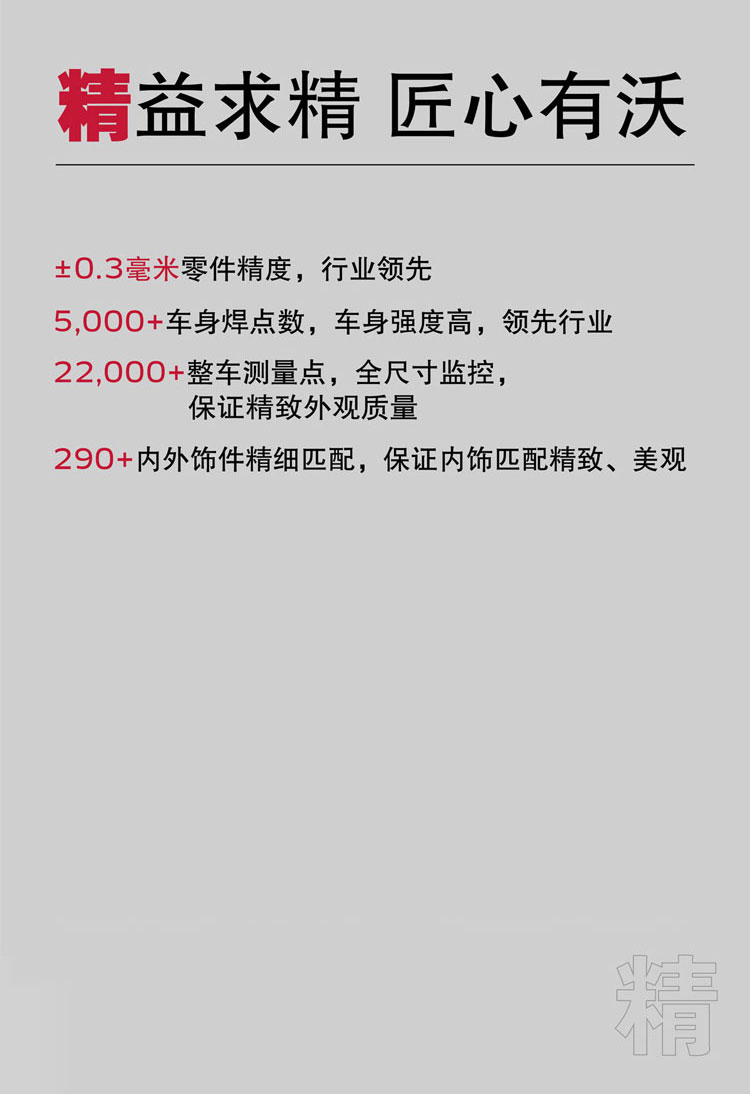
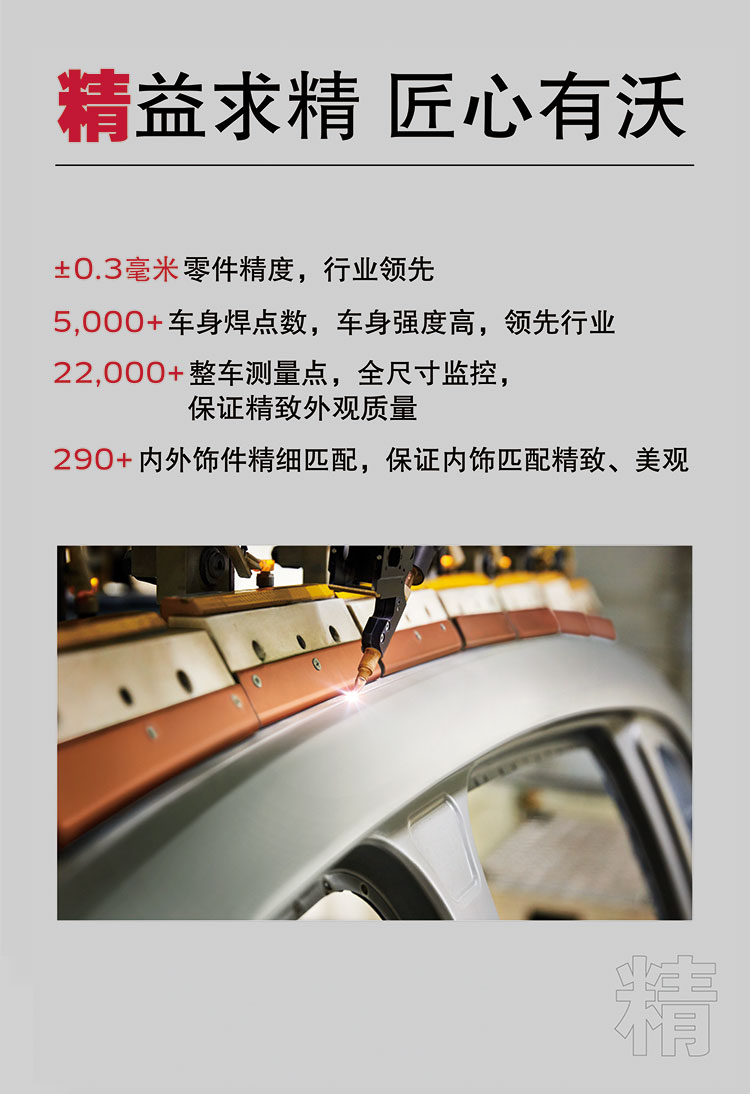
v2 全版本更新

diff --git a/public/index.html b/public/index.html
@@ -1,1 +1,1 @@
-<!DOCTYPE html><html><head><title>宝沃圣经 (V2.0)</title><meta charset="UTF-8"><meta name="viewport" content="width=device-width,initial-scale=1.0,minimum-scale=1.0"><meta name="sharecontent" data-msg-img="./assets/img/bw_logo.jpg" data-msg-title="宝沃圣经 (V2.0)" data-msg-content="中国新力量X-FORCE" data-msg-callBack="" data-line-img="./assets/img/bw_logo.jpg" data-line-title="中国新力量X-FORCE" data-line-callBack=""><meta name="description" content="中国新力量X-Force"><meta property="og:image" content="./assets/img/bw_logo.jpg"><meta property="og:title" content="宝沃圣经 (V2.0)"><meta property="og:description" content="中国新力量X-FORCE"><meta property="og:url" content=""><link rel="stylesheet" href="./assets/css/vendor/bootstrap.css"><link rel="stylesheet" href="./assets/css/vendor/video.css"><link rel="stylesheet" href="./assets/css/vendor/jquery.fancybox.css"><link rel="stylesheet" href="./assets/css/vendor/animate.css"><link rel="stylesheet" href="./assets/css/app.css"><script src="./assets/js/vendor/jquery.js"></script><script src="./assets/js/vendor/modernizr.3.5.0.js"></script><script src="./assets/js/vendor/detectizr.2.2.0.js"></script></head><div style="margin:0 auto;width:0px;height:0px;overflow:hidden;"><img src="./assets/img/bw_logo.jpg"></div><body><header class="c-header"><div class="c-header__logo"><img src="./assets/img/header-logo.png"></div><div class="c-header__menu js-menu"><ul><li><a href="javascript:void(0);" class="js-menu--top-menu--item">宝沃<br/>是谁</a><ul class="c-header__menu__submenu js-submenu"><li><a href="javascript:void(0);", data-url="2" class="js-submenu--item">宝沃密码</a></li><li><a href="javascript:void(0);", data-url="3" class="js-submenu--item">宝沃安全之盾</a></li><li><a href="javascript:void(0);", data-url="4" class="js-submenu--item">研  发</a></li><li><a href="javascript:void(0);", data-url="5" class="js-submenu--item">生  产</a></li><li><a href="javascript:void(0);", data-url="9" class="js-submenu--item">供应链</a></li></ul></li><li><a href="javascript:void(0);" class="js-menu--top-menu--item">宝沃<br/>怎么样</a><ul class="c-header__menu__submenu js-submenu"><li><a href="javascript:void(0);", data-url="13" class="js-submenu--item">懂一族</a></li><li><a href="javascript:void(0);", data-url="14" class="js-submenu--item">宝沃安全时空</a></li><li><a href="javascript:void(0);", data-url="27" class="js-submenu--item">设计专题</a></li><li><a href="javascript:void(0);", data-url="29" class="js-submenu--item">B-LINK专题</a></li><li><a href="javascript:void(0);", data-url="33" class="js-submenu--item">B-SAFE专题</a></li></ul></li><li><a href="javascript:void(0);" class="js-menu--top-menu--item">宝沃家族<br/>真心实价</a><ul class="c-header__menu__submenu js-submenu"><li><a href="javascript:void(0);", data-url="38" class="js-submenu--item">宝沃家族</a></li><li><a href="javascript:void(0);", data-url="47" class="js-submenu--item">保价承诺</a></li><li><a href="javascript:void(0);", data-url="48" class="js-submenu--item">终生质保</a></li></ul></li><li><a href="javascript:void(0);" class="js-menu--top-menu--item">媒体<br/>车主评价</a><ul class="c-header__menu__submenu js-submenu"><li><a href="javascript:void(0);", data-url="50" class="js-submenu--item">动  力</a></li><li><a href="javascript:void(0);", data-url="51" class="js-submenu--item">空  间</a></li><li><a href="javascript:void(0);", data-url="52" class="js-submenu--item">造  型</a></li><li><a href="javascript:void(0);", data-url="53" class="js-submenu--item">舒适性</a></li><li><a href="javascript:void(0);", data-url="55" class="js-submenu--item">买宝沃三大理由</a></li></ul></li></ul></div></header><div data-src="./assets/video/ecall.mp4" class="m-video pos-abs"></div><div class="flip-book js-flip-book"><section class="bg-ghost-blue"><img src="./assets/img/v2/s1.jpg" class="l-w--100p"></section><section id="p2" class="bg-ghost-blue"><img src="./assets/img/v2/s2.jpg" class="l-w--100p l-top"><ul class="l-w--70p l-center"><li href="./assets/img/v2/s2-9-long.jpg" class="fancybox flip-fancybox"></li><li href="./assets/img/v2/s2-8-long.jpg" class="fancybox flip-fancybox"></li><li href="./assets/img/v2/s2-7-long.jpg" class="fancybox flip-fancybox"></li><li href="./assets/img/v2/s2-6-long.jpg" class="fancybox flip-fancybox"></li><li href="./assets/img/v2/s2-5-long.jpg" class="fancybox flip-fancybox"></li><li href="./assets/img/v2/s2-4-long.jpg" class="fancybox flip-fancybox"></li><li href="./assets/img/v2/s2-3-long.jpg" class="fancybox flip-fancybox"></li><li href="./assets/img/v2/s2-2-long.jpg" class="fancybox flip-fancybox"></li><li href="./assets/img/v2/s2-1-long.jpg" class="fancybox flip-fancybox"></li></ul></section><section class="bg-ghost-blue"><img src="./assets/img/v2/s3.jpg" class="l-w--100p l-top"></section><section class="bg-ghost-blue"><img src="./assets/img/v2/s4.jpg" class="l-w--100p l-top"></section><section class="bg-ghost-blue"><div class="l-w--100p l-top"><img src="./assets/img/v2/s5.jpg" class="l-w--100p"><img src="./assets/img/v2/s5-1.png" data-url="6" class="l-w--80p pos-abs c-v2-s5-1 is-btn js-has-link"><img src="./assets/img/v2/s5-2.png" data-url="7" class="l-w--80p pos-abs c-v2-s5-2 is-btn js-has-link"><img src="./assets/img/v2/s5-3.png" data-url="8" class="l-w--80p pos-abs c-v2-s5-3 is-btn js-has-link"></div></section><section class="bg-ghost-blue"><div class="l-w--100p l-top"><img src="./assets/img/v2/s6.jpg" class="l-w--100p"><img src="./assets/img/v2/s6-1.jpg" data-src="./assets/video/factory.mp4" class="c-v2-s6 pos-abs has-btn js-m-video"></div><div data-url="5" class="c-v2-return-btn is-btn js-has-link"></div></section><section class="bg-ghost-blue"><div class="l-w--100p l-top"><img src="./assets/img/v2/s7.jpg" class="l-w--100p"><img src="./assets/img/v2/s7-1.jpg" data-src="./assets/video/factory.mp4" class="c-v2-s7 pos-abs has-btn js-m-video"></div><div data-url="5" class="c-v2-return-btn is-btn js-has-link"></div></section><section class="bg-ghost-blue"><div class="l-w--100p l-top"><img src="./assets/img/v2/s8.jpg" class="l-w--100p"><img src="./assets/img/v2/s8-1.jpg" data-src="./assets/video/factory.mp4" class="c-v2-s8 pos-abs has-btn js-m-video"></div><div data-url="5" class="c-v2-return-btn is-btn js-has-link"></div></section><section class="bg-ghost-blue"><div class="l-w--100p l-top"><img src="./assets/img/v2/s9.jpg" class="l-w--100p"><img src="./assets/img/v2/s9-1.jpg" data-url="10" class="l-w--80p pos-abs c-v2-s9 is-btn js-has-link"></div></section><section class="bg-silver-grey"><img src="./assets/img/v2/s10.jpg" class="l-w--100p l-top"><div data-url="9" class="c-v2-return-btn is-btn js-has-link"></div></section><section class="bg-silver-grey"><img src="./assets/img/v2/s11.jpg" class="l-w--100p l-top"><div data-url="9" class="c-v2-return-btn is-btn js-has-link"></div></section><section class="bg-black"><img src="./assets/img/v2/s12.jpg" class="l-w--100p l-top"></section><section class="bg-ghost-blue"><img src="./assets/img/v2/s13.jpg" class="l-w--100p l-top"></section><section id="p20" class="bg-black"><div class="l-center"><img src="./assets/img/s20.jpg" class="l-w--100p"><img src="./assets/img/s20-1.png" class="l-w--100p pos-abs flip-s20-anim-l"><img src="./assets/img/s20-2.png" class="l-w--100p pos-abs flip-s20-anim-r"><img src="./assets/img/s20-3.png" class="l-w--100p pos-abs flip-s20-anim-t"><img src="./assets/img/s20-4.png" class="l-w--100p pos-abs flip-s20-anim-b"></div></section><section class="bg-ghost-blue"><img src="./assets/img/v2/s15.jpg" class="l-w--100p l-top"></section><section class="bg-lily-white"><div class="c-v2-s16"><img src="./assets/img/s22-top.jpg" class="l-w--100p"><div class="flip-video pos-abs"><img src="./assets/img/v2/s16-bottom.jpg" class="l-w--100p"><img src="./assets/img/v2/s16-1.jpg" data-url="17" class="pos-abs c-v2-s16-1 is-btn js-has-link"><img src="./assets/img/v2/s16-2.jpg" data-url="18" class="pos-abs c-v2-s16-2 is-btn js-has-link"><img src="./assets/img/v2/s16-3.jpg" data-url="21" class="pos-abs c-v2-s16-3 is-btn js-has-link"><img src="./assets/img/play-btn.png" data-src="./assets/video/safe.mp4" class="js-m-video bw-video bw-video__btn--1 pos-abs"><img src="./assets/img/play-btn.png" data-src="./assets/video/0.12.mp4" class="js-m-video bw-video pos-abs bw-video__btn--2"><img src="./assets/img/play-btn.png" data-src="./assets/video/ecall.mp4" class="js-m-video bw-video pos-abs bw-video__btn--3"><div class="video-note pos-abs">提示：点击按钮播放视频，探索更多精彩</div></div></div></section><section class="bg-ghost-blue"><img src="./assets/img/v2/s17.jpg" class="l-w--100p l-top"><div data-url="16" class="c-v2-return-btn is-btn js-has-link"></div></section><section class="bg-ghost-blue"><img src="./assets/img/v2/s18.jpg" class="l-w--100p l-top"><div data-url="16" class="c-v2-return-btn is-btn js-has-link"></div></section><section class="bg-ghost-blue"><img src="./assets/img/v2/s19.jpg" class="l-w--100p l-top"><div data-url="16" class="c-v2-return-btn is-btn js-has-link"></div></section><section class="bg-ghost-blue"><div class="l-w--100p l-top"><img src="./assets/img/v2/s20.jpg" class="l-w--100p"><img src="./assets/img/v2/s20-1.jpg" data-src="./assets/video/single.mp4" class="c-v2-s20 pos-abs has-btn js-m-video"></div><div data-url="16" class="c-v2-return-btn is-btn js-has-link"></div></section><section class="bg-ghost-blue"><img src="./assets/img/v2/s21.jpg" class="l-w--100p l-top"><div data-url="16" class="c-v2-return-btn is-btn js-has-link"></div></section><section id="p23" class="bg-lily-white"><div class="c-v2-s22"><img src="./assets/img/s23-top.jpg" class="l-w--100p"><div class="flip-video pos-abs"><img src="./assets/img/v2/s16-bottom.jpg" class="l-w--100p"><img src="./assets/img/v2/s22-1.jpg" data-url="23" class="pos-abs c-v2-s22-1 is-btn js-has-link"><img src="./assets/img/v2/s22-2.jpg" data-url="25" class="pos-abs c-v2-s22-2 is-btn js-has-link"><img src="./assets/img/v2/s22-3.jpg" data-url="26" class="pos-abs c-v2-s22-3 is-btn js-has-link"><img src="./assets/img/play-btn.png" data-src="./assets/video/1000.mp4" class="js-m-video bw-video pos-abs bw-video__btn--4"><img src="./assets/img/play-btn.png" data-src="./assets/video/79.mp4" class="js-m-video bw-video pos-abs bw-video__btn--5"><img src="./assets/img/play-btn.png" data-src="./assets/video/0.02.mp4" class="js-m-video bw-video pos-abs bw-video__btn--6"><div class="video-note pos-abs">提示：点击按钮播放视频，探索更多精彩</div></div></div></section><section class="bg-ghost-blue"><img src="./assets/img/v2/s23.jpg" class="l-w--100p l-top"><div data-url="22" class="c-v2-return-btn is-btn js-has-link"></div></section><section class="bg-ghost-blue"><img src="./assets/img/v2/s24.jpg" class="l-w--100p l-top"><div data-url="22" class="c-v2-return-btn is-btn js-has-link"></div></section><section class="bg-ghost-blue"><img src="./assets/img/v2/s25.jpg" class="l-w--100p l-top"><div data-url="22" class="c-v2-return-btn is-btn js-has-link"></div></section><section class="bg-ghost-blue"><img src="./assets/img/v2/s26.jpg" class="l-w--100p l-top"><div data-url="22" class="c-v2-return-btn is-btn js-has-link"></div></section><section class="bg-ghost-blue"><img src="./assets/img/v2/s27.jpg" class="l-w--100p l-top"></section><section class="bg-ghost-blue"><img src="./assets/img/v2/s28.jpg" class="l-w--100p l-top"></section><section class="bg-ghost-blue"><div class="l-w--100p l-top"><img src="./assets/img/v2/s29.jpg" class="l-w--100p"><img src="./assets/img/v2/s29-1.png" data-url="30" class="c-v2-s29 pos-abs js-has-link is-btn"></div></section><section class="bg-ghost-blue"><img src="./assets/img/v2/s30.jpg" class="l-w--100p l-top"><div data-url="29" class="c-v2-return-btn is-btn js-has-link"></div></section><section class="bg-ghost-blue"><img src="./assets/img/v2/s31.jpg" class="l-w--100p l-top"><div data-url="29" class="c-v2-return-btn is-btn js-has-link"></div></section><section class="bg-ghost-blue"><img src="./assets/img/v2/s32.jpg" class="l-w--100p l-top"><div data-url="29" class="c-v2-return-btn is-btn js-has-link"></div></section><section class="bg-ghost-blue"><div class="l-w--100p l-top"><img src="./assets/img/v2/s33.jpg" class="l-w--100p"><img src="./assets/img/v2/s29-1.png" data-url="34" class="c-v2-s33 pos-abs js-has-link is-btn"></div></section><section class="bg-ghost-blue"><img src="./assets/img/v2/s34.jpg" class="l-w--100p l-top"><div data-url="33" class="c-v2-return-btn is-btn js-has-link"></div></section><section class="bg-ghost-blue"><img src="./assets/img/v2/s35.jpg" class="l-w--100p l-top"><div data-url="33" class="c-v2-return-btn is-btn js-has-link"></div></section><section class="bg-ghost-blue"><img src="./assets/img/v2/s36.jpg" class="l-w--100p l-top"><div data-url="33" class="c-v2-return-btn is-btn js-has-link"></div></section><section class="bg-black"><img src="./assets/img/v2/s37.jpg" class="l-w--100p l-top"></section><section class="bg-lily-white"><img src="./assets/img/v2/s38-1.jpg" data-url="39" class="pos-rel flip-book-anim-24-1 l-w--100p c-v2-s38-1 is-btn js-has-link"><img src="./assets/img/v2/s38-2.jpg" data-url="43" class="pos-rel flip-book-anim-24-2 l-w--100p c-v2-s38-2 is-btn js-has-link"><img src="./assets/img/v2/s38-3.jpg" class="l-w--100p pos-rel c-v2-s38-0"><img src="./assets/img/v2/s38-4.jpg" data-url="45" class="pos-rel flip-book-anim-24-3 l-w--100p c-v2-s38-3 is-btn js-has-link"><img src="./assets/img/v2/s38-5.jpg" data-url="41" class="pos-rel flip-book-anim-24-4 l-w--100p c-v2-s38-4 is-btn js-has-link"><img src="./assets/img/v2/s38-6.jpg" data-url="46" class="pos-rel flip-book-anim-24-5 l-w--100p c-v2-s38-5 is-btn js-has-link"></section><section class="bg-ghost-blue"><img src="./assets/img/v2/s39.jpg" class="l-w--100p l-top"><div data-url="38" class="c-v2-return-btn is-btn js-has-link"></div></section><section class="bg-ghost-blue"><div class="l-w--100p l-top"><img src="./assets/img/v2/s40.jpg" class="l-w--100p"><img src="./assets/img/v2/s40-1.jpg" data-src="./assets/video/bx5.mp4" class="c-v2-s40 pos-abs has-btn js-m-video"></div><div data-url="38" class="c-v2-return-btn is-btn js-has-link"></div></section><section class="bg-ghost-blue"><img src="./assets/img/v2/s41.jpg" class="l-w--100p l-top"><div data-url="38" class="c-v2-return-btn is-btn js-has-link"></div></section><section class="bg-ghost-blue"><div class="l-w--100p l-top"><img src="./assets/img/v2/s42.jpg" class="l-w--100p"><img src="./assets/img/v2/s42-1.jpg" data-src="./assets/video/bx6.mp4" class="c-v2-s42 pos-abs has-btn js-m-video"></div><div data-url="38" class="c-v2-return-btn is-btn js-has-link"></div></section><section class="bg-ghost-blue"><img src="./assets/img/v2/s43.jpg" class="l-w--100p l-top"><div data-url="38" class="c-v2-return-btn is-btn js-has-link"></div></section><section class="bg-ghost-blue"><div class="l-w--100p l-top"><img src="./assets/img/v2/s44.jpg" class="l-w--100p"><img src="./assets/img/v2/s44-1.jpg" data-src="./assets/video/bx7.mp4" class="c-v2-s44 pos-abs has-btn js-m-video"></div><div data-url="38" class="c-v2-return-btn is-btn js-has-link"></div></section><section class="bg-ghost-blue"><img src="./assets/img/v2/s45.jpg" class="l-w--100p l-top"><div data-url="38" class="c-v2-return-btn is-btn js-has-link"></div></section><section class="bg-ghost-blue"><img src="./assets/img/v2/s46.jpg" class="l-w--100p l-top"><div data-url="38" class="c-v2-return-btn is-btn js-has-link"></div></section><section class="bg-ghost-blue"><img src="./assets/img/v2/s47.jpg" class="l-w--100p l-top"></section><section class="bg-ghost-blue"><img src="./assets/img/v2/s48.jpg" class="l-w--100p l-top"></section><section class="bg-black"><img src="./assets/img/v2/s49.jpg" class="l-w--100p l-top"></section><section class="bg-ghost-blue"><div class="l-w--100p pos-rel c-v2-s50-top"><img src="./assets/img/v2/s50-top.jpg" class="l-w--100p"><a href="https://k.autohome.com.cn/detail/view_01c4y0tn3e64w3jd1j74wg0000.html?st=2&amp;piap=0|3913|0|0|1|0|0|0|0|0|1" target="_blank"><img src="./assets/img/v2/s50-1.jpg" class="c-v2-s50-1 pos-abs"></a><a href="https://k.autohome.com.cn/detail/view_01cee87nk668r38csr70v00000.html?st=21&amp;piap=1|31294|0|0|1|0|5|0|0|0|1" target="_blank"><img src="./assets/img/v2/s50-2.jpg" class="c-v2-s50-2 pos-abs"></a></div><div class="l-w--100p pos-rel c-v2-s50-middle"><img src="./assets/img/v2/s50-middle.jpg" class="l-w--100p"><a href="http://news.bitauto.com/hao/wenzhang/832953" target="_blank"><img src="./assets/img/v2/s50-3.jpg" class="c-v2-s50-3 pos-abs"></a><a href="http://auto.ifeng.com/shijia/20180621/1195993.shtml" target="_blank"><img src="./assets/img/v2/s50-4.jpg" class="c-v2-s50-4 pos-abs"></a></div><div class="l-w--80p pos-rel c-v2-s50-bottom"><img src="./assets/img/v2/s50-bottom.jpg" class="l-w--100p"><img src="./assets/img/v2/s50-5.jpg" data-url="51" class="c-v2-s50-5 pos-abs is-btn js-has-link"><a href="https://k.autohome.com.cn/compareseries/3913/#pvareaid=101434" target="_blank"><img src="./assets/img/v2/s50-6.jpg" class="c-v2-s50-6 pos-abs"></a></div></section><section class="bg-ghost-blue"><div class="l-w--100p pos-rel c-v2-s50-top"><img src="./assets/img/v2/s51-top.jpg" class="l-w--100p"><a href="https://k.autohome.com.cn/detail/view_01c4ymrday64w3jd1q6gsg0000.html?st=1&amp;piap=0|3913|0|0|1|0|4|0|0|0|1" target="_blank"><img src="./assets/img/v2/s51-1.jpg" class="c-v2-s50-1 pos-abs"></a><a href="https://k.autohome.com.cn/detail/view_01c4y0tn3e64w3jd1j74wg0000.html?st=2&amp;piap=0|3913|0|0|1|0|4|0|0|0|1" target="_blank"><img src="./assets/img/v2/s51-2.jpg" class="c-v2-s50-2 pos-abs"></a></div><div class="l-w--100p pos-rel c-v2-s50-middle"><img src="./assets/img/v2/s50-middle.jpg" class="l-w--100p"><a href="http://news.bitauto.com/hao/wenzhang/811635" target="_blank"><img src="./assets/img/v2/s51-3.jpg" class="c-v2-s50-3 pos-abs"></a><a href="http://news.cheshi.com/dujia/20180626/2847936.shtml" target="_blank"><img src="./assets/img/v2/s51-4.jpg" class="c-v2-s50-4 pos-abs"></a></div><div class="l-w--80p pos-rel c-v2-s50-bottom"><img src="./assets/img/v2/s50-bottom.jpg" class="l-w--100p"><img src="./assets/img/v2/s50-5.jpg" data-url="54" class="c-v2-s50-5 pos-abs is-btn js-has-link"><a href="https://k.autohome.com.cn/compareseries/3913/#pvareaid=101434" target="_blank"><img src="./assets/img/v2/s50-6.jpg" class="c-v2-s50-6 pos-abs"></a></div></section><section class="bg-ghost-blue"><div class="l-w--100p pos-rel c-v2-s50-top"><img src="./assets/img/v2/s52-top.jpg" class="l-w--100p"><a href="https://k.autohome.com.cn/detail/view_01c55x5g5b64w3je9k6wrg0000.html?st=8&amp;piap=1|31294|0|0|1|0|1|0|0|0|1" target="_blank"><img src="./assets/img/v2/s52-1.jpg" class="c-v2-s50-1 pos-abs"></a><a href="https://k.autohome.com.cn/detail/view_01c1aqxkj064w38chs64wg0000.html?st=44&amp;piap=1|31294|0|0|1|0|1|0|0|0|1" target="_blank"><img src="./assets/img/v2/s52-2.jpg" class="c-v2-s50-2 pos-abs"></a></div><div class="l-w--100p pos-rel c-v2-s50-middle"><img src="./assets/img/v2/s50-middle.jpg" class="l-w--100p"><a href="https://www.autohome.com.cn/news/201712/911073.html" target="_blank"><img src="./assets/img/v2/s52-3.jpg" class="c-v2-s50-3 pos-abs"></a><a href="http://www.maiche.com/news/detail/1409612.html" target="_blank"><img src="./assets/img/v2/s52-4.jpg" class="c-v2-s50-4 pos-abs"></a></div><div class="l-w--80p pos-rel c-v2-s50-bottom"><img src="./assets/img/v2/s50-bottom.jpg" class="l-w--100p"><img src="./assets/img/v2/s50-5.jpg" data-url="54" class="c-v2-s50-5 pos-abs is-btn js-has-link"><a href="https://k.autohome.com.cn/compareseries/3913/#pvareaid=101434" target="_blank"><img src="./assets/img/v2/s50-6.jpg" class="c-v2-s50-6 pos-abs"></a></div></section><section class="bg-ghost-blue"><div class="l-w--100p pos-rel c-v2-s50-top"><img src="./assets/img/v2/s53-top.jpg" class="l-w--100p"><a href="https://k.autohome.com.cn/detail/view_01cf1gxnqp68r3ad1s68s00000.html?st=76&amp;piap=1|31294|0|0|1|0|3|0|0|0|1" target="_blank"><img src="./assets/img/v2/s53-1.jpg" class="c-v2-s50-1 pos-abs"></a><a href="https://k.autohome.com.cn/detail/view_01c4ymrday64w3jd1q6gsg0000.html?st=1&amp;piap=0|3913|0|0|1|0|3|0|0|0|1" target="_blank"><img src="./assets/img/v2/s53-2.jpg" class="c-v2-s50-2 pos-abs"></a></div><div class="l-w--100p pos-rel c-v2-s50-middle"><img src="./assets/img/v2/s50-middle.jpg" class="l-w--100p"><a href="http://auto.ifeng.com/shijia/20180621/1195993.shtml" target="_blank"><img src="./assets/img/v2/s53-3.jpg" class="c-v2-s50-3 pos-abs"></a><a href="https://chejiahao.autohome.com.cn/info/2522482" target="_blank"><img src="./assets/img/v2/s53-4.jpg" class="c-v2-s50-4 pos-abs"></a></div><div class="l-w--80p pos-rel c-v2-s50-bottom"><img src="./assets/img/v2/s50-bottom.jpg" class="l-w--100p"><img src="./assets/img/v2/s50-5.jpg" data-url="54" class="c-v2-s50-5 pos-abs is-btn js-has-link"><a href="https://k.autohome.com.cn/compareseries/3913/#pvareaid=101434" target="_blank"><img src="./assets/img/v2/s50-6.jpg" class="c-v2-s50-6 pos-abs"></a></div></section><section class="bg-ghost-blue"><div class="l-w--100p l-top"><img src="./assets/img/v2/s54.jpg" class="l-w--100p"></div><div class="c-v2-s51 pos-abs"><a href="http://news.bitauto.com/hao/wenzhang/832953" target="_blank"><img src="./assets/img/v2/s54-1.jpg" class="l-w--100p c-v2-s51-1"></a><a href="http://auto.ifeng.com/shijia/20180621/1195993.shtml" target="_blank"><img src="./assets/img/v2/s54-2.jpg" class="l-w--100p c-v2-s51-2"></a><a href="http://news.bitauto.com/hao/wenzhang/811635" target="_blank"><img src="./assets/img/v2/s54-3.jpg" class="l-w--100p c-v2-s51-3"></a></div><div data-url="51" class="c-v2-return-btn is-btn js-has-link"></div></section><section class="bg-ghost-blue"><img src="./assets/img/v2/s55.jpg" class="l-w--100p l-center"></section></div><div class="flip-icon js-flip-btn"></div></body><script src="./assets/js/vendor/jquery.fancybox.js"></script><script src="./assets/js/vendor/turn.js"></script><script src="./assets/js/vendor/video.js"></script><script src="./assets/js/app.js"></script></html>
+<!DOCTYPE html><html><head><title>宝沃圣经 (V2.0)</title><meta charset="UTF-8"><meta name="viewport" content="width=device-width,initial-scale=1.0,minimum-scale=1.0"><meta name="sharecontent" data-msg-img="./assets/img/bw_logo.jpg" data-msg-title="宝沃圣经 (V2.0)" data-msg-content="中国新力量X-FORCE" data-msg-callBack="" data-line-img="./assets/img/bw_logo.jpg" data-line-title="中国新力量X-FORCE" data-line-callBack=""><meta name="description" content="中国新力量X-Force"><meta property="og:image" content="./assets/img/bw_logo.jpg"><meta property="og:title" content="宝沃圣经 (V2.0)"><meta property="og:description" content="中国新力量X-FORCE"><meta property="og:url" content=""><link rel="stylesheet" href="./assets/css/vendor/bootstrap.css"><link rel="stylesheet" href="./assets/css/vendor/video.css"><link rel="stylesheet" href="./assets/css/vendor/jquery.fancybox.css"><link rel="stylesheet" href="./assets/css/vendor/animate.css"><link rel="stylesheet" href="./assets/css/app.css"><script src="./assets/js/vendor/jquery.js"></script><script src="./assets/js/vendor/modernizr.3.5.0.js"></script><script src="./assets/js/vendor/detectizr.2.2.0.js"></script></head><div style="margin:0 auto;width:0px;height:0px;overflow:hidden;"><img src="./assets/img/bw_logo.jpg"></div><body><header class="c-header"><div class="c-header__logo"><img src="./assets/img/header-logo.png"></div><div class="c-header__menu js-menu"><ul><li><a href="javascript:void(0);" class="js-menu--top-menu--item">宝沃<br/>是谁</a><ul class="c-header__menu__submenu js-submenu"><li><a href="javascript:void(0);", data-url="2" class="js-submenu--item">宝沃密码</a></li><li><a href="javascript:void(0);", data-url="3" class="js-submenu--item">宝沃安全之盾</a></li><li><a href="javascript:void(0);", data-url="4" class="js-submenu--item">研  发</a></li><li><a href="javascript:void(0);", data-url="5" class="js-submenu--item">生  产</a></li><li><a href="javascript:void(0);", data-url="9" class="js-submenu--item">供应链</a></li></ul></li><li><a href="javascript:void(0);" class="js-menu--top-menu--item">宝沃<br/>怎么样</a><ul class="c-header__menu__submenu js-submenu"><li><a href="javascript:void(0);", data-url="13" class="js-submenu--item">懂一族</a></li><li><a href="javascript:void(0);", data-url="14" class="js-submenu--item">宝沃安全时空</a></li><li><a href="javascript:void(0);", data-url="27" class="js-submenu--item">设计专题</a></li><li><a href="javascript:void(0);", data-url="29" class="js-submenu--item">B-LINK专题</a></li><li><a href="javascript:void(0);", data-url="33" class="js-submenu--item">B-SAFE专题</a></li></ul></li><li><a href="javascript:void(0);" class="js-menu--top-menu--item">宝沃家族<br/>真心实价</a><ul class="c-header__menu__submenu js-submenu"><li><a href="javascript:void(0);", data-url="38" class="js-submenu--item">宝沃家族</a></li><li><a href="javascript:void(0);", data-url="47" class="js-submenu--item">保价承诺</a></li><li><a href="javascript:void(0);", data-url="48" class="js-submenu--item">终生质保</a></li></ul></li><li><a href="javascript:void(0);" class="js-menu--top-menu--item">媒体<br/>车主评价</a><ul class="c-header__menu__submenu js-submenu"><li><a href="javascript:void(0);", data-url="50" class="js-submenu--item">动  力</a></li><li><a href="javascript:void(0);", data-url="51" class="js-submenu--item">空  间</a></li><li><a href="javascript:void(0);", data-url="52" class="js-submenu--item">造  型</a></li><li><a href="javascript:void(0);", data-url="53" class="js-submenu--item">舒适性</a></li><li><a href="javascript:void(0);", data-url="55" class="js-submenu--item">买宝沃三大理由</a></li></ul></li></ul></div></header><div data-src="./assets/video/ecall.mp4" class="m-video pos-abs"></div><div class="flip-book js-flip-book"><section class="bg-ghost-blue"><img src="./assets/img/v2/s1.jpg" class="l-w--100p"></section><section id="p2" class="bg-ghost-blue"><img src="./assets/img/v2/s2.jpg" class="l-w--100p l-top"><ul class="l-w--70p l-center"><li href="./assets/img/v2/s2-9-long.jpg" class="fancybox flip-fancybox"></li><li href="./assets/img/v2/s2-8-long.jpg" class="fancybox flip-fancybox"></li><li href="./assets/img/v2/s2-7-long.jpg" class="fancybox flip-fancybox"></li><li href="./assets/img/v2/s2-6-long.jpg" class="fancybox flip-fancybox"></li><li href="./assets/img/v2/s2-5-long.jpg" class="fancybox flip-fancybox"></li><li href="./assets/img/v2/s2-4-long.jpg" class="fancybox flip-fancybox"></li><li href="./assets/img/v2/s2-3-long.jpg" class="fancybox flip-fancybox"></li><li href="./assets/img/v2/s2-2-long.jpg" class="fancybox flip-fancybox"></li><li href="./assets/img/v2/s2-1-long.jpg" class="fancybox flip-fancybox"></li></ul></section><section class="bg-ghost-blue"><img src="./assets/img/v2/s3.jpg" class="l-w--100p l-top"></section><section class="bg-ghost-blue"><img src="./assets/img/v2/s4.jpg" class="l-w--100p l-top"></section><section class="bg-ghost-blue"><div class="l-w--100p l-top"><img src="./assets/img/v2/s5.jpg" class="l-w--100p"><img src="./assets/img/v2/s5-1.png" data-url="6" class="l-w--70p pos-abs c-v2-s5-1 is-btn js-has-link"><img src="./assets/img/v2/s5-2.png" data-url="7" class="l-w--70p pos-abs c-v2-s5-2 is-btn js-has-link"><img src="./assets/img/v2/s5-3.png" data-url="8" class="l-w--70p pos-abs c-v2-s5-3 is-btn js-has-link"><img src="./assets/img/v2/s5-4.jpg" data-src="./assets/video/factory.mp4" class="c-v2-s5-4 l-w--70p pos-abs has-btn js-m-video"></div></section><section class="bg-ghost-blue"><div class="l-w--100p l-top"><img src="./assets/img/v2/s6.jpg" class="l-w--100p"></div><div data-url="5" class="c-v2-return-btn is-btn js-has-link"></div></section><section class="bg-ghost-blue"><div class="l-w--100p l-top"><img src="./assets/img/v2/s7.jpg" class="l-w--100p"></div><div data-url="5" class="c-v2-return-btn is-btn js-has-link"></div></section><section class="bg-ghost-blue"><div class="l-w--100p l-top"><img src="./assets/img/v2/s8.jpg" class="l-w--100p"></div><div data-url="5" class="c-v2-return-btn is-btn js-has-link"></div></section><section class="bg-ghost-blue"><div class="l-w--100p l-top"><img src="./assets/img/v2/s9.jpg" class="l-w--100p"><img src="./assets/img/v2/s9-1.jpg" data-url="10" class="l-w--80p pos-abs c-v2-s9 is-btn js-has-link"></div></section><section class="bg-silver-grey"><img src="./assets/img/v2/s10.jpg" class="l-w--100p l-top"><div data-url="9" class="c-v2-return-btn is-btn js-has-link"></div></section><section class="bg-silver-grey"><img src="./assets/img/v2/s11.jpg" class="l-w--100p l-top"><div data-url="9" class="c-v2-return-btn is-btn js-has-link"></div></section><section class="bg-black"><img src="./assets/img/v2/s12.jpg" class="l-w--100p l-top"></section><section class="bg-ghost-blue"><img src="./assets/img/v2/s13.jpg" class="l-w--100p l-top"></section><section id="p20" class="bg-black"><div class="l-center"><img src="./assets/img/s20.jpg" class="l-w--100p"><img src="./assets/img/s20-1.png" class="l-w--100p pos-abs flip-s20-anim-l"><img src="./assets/img/s20-2.png" class="l-w--100p pos-abs flip-s20-anim-r"><img src="./assets/img/s20-3.png" class="l-w--100p pos-abs flip-s20-anim-t"><img src="./assets/img/s20-4.png" class="l-w--100p pos-abs flip-s20-anim-b"></div></section><section class="bg-ghost-blue"><img src="./assets/img/v2/s15.jpg" class="l-w--100p l-top"></section><section class="bg-lily-white"><div class="c-v2-s16"><img src="./assets/img/s22-top.jpg" class="l-w--100p"><div class="flip-video pos-abs"><img src="./assets/img/v2/s16-bottom.jpg" class="l-w--100p"><img src="./assets/img/v2/s16-1.jpg" data-url="17" class="pos-abs c-v2-s16-1 is-btn js-has-link"><img src="./assets/img/v2/s16-2.jpg" data-url="18" class="pos-abs c-v2-s16-2 is-btn js-has-link"><img src="./assets/img/v2/s16-3.jpg" data-url="21" class="pos-abs c-v2-s16-3 is-btn js-has-link"><img src="./assets/img/play-btn.png" data-src="./assets/video/safe.mp4" class="js-m-video bw-video bw-video__btn--1 pos-abs"><img src="./assets/img/play-btn.png" data-src="./assets/video/0.12.mp4" class="js-m-video bw-video pos-abs bw-video__btn--2"><img src="./assets/img/play-btn.png" data-src="./assets/video/ecall.mp4" class="js-m-video bw-video pos-abs bw-video__btn--3"><div class="video-note pos-abs">提示：点击按钮播放视频，探索更多精彩</div></div></div></section><section class="bg-ghost-blue"><img src="./assets/img/v2/s17.jpg" class="l-w--100p l-top"><div data-url="16" class="c-v2-return-btn is-btn js-has-link"></div></section><section class="bg-ghost-blue"><img src="./assets/img/v2/s18.jpg" class="l-w--100p l-top"><div data-url="16" class="c-v2-return-btn is-btn js-has-link"></div></section><section class="bg-ghost-blue"><img src="./assets/img/v2/s19.jpg" class="l-w--100p l-top"><div data-url="16" class="c-v2-return-btn is-btn js-has-link"></div></section><section class="bg-ghost-blue"><div class="l-w--100p l-top"><img src="./assets/img/v2/s20.jpg" class="l-w--100p"><img src="./assets/img/v2/s20-1.jpg" data-src="./assets/video/single.mp4" class="c-v2-s20 pos-abs has-btn js-m-video"></div><div data-url="16" class="c-v2-return-btn is-btn js-has-link"></div></section><section class="bg-ghost-blue"><img src="./assets/img/v2/s21.jpg" class="l-w--100p l-top"><div data-url="16" class="c-v2-return-btn is-btn js-has-link"></div></section><section id="p23" class="bg-lily-white"><div class="c-v2-s22"><img src="./assets/img/s23-top.jpg" class="l-w--100p"><div class="flip-video pos-abs"><img src="./assets/img/v2/s16-bottom.jpg" class="l-w--100p"><img src="./assets/img/v2/s22-1.jpg" data-url="23" class="pos-abs c-v2-s22-1 is-btn js-has-link"><img src="./assets/img/v2/s22-2.jpg" data-url="25" class="pos-abs c-v2-s22-2 is-btn js-has-link"><img src="./assets/img/v2/s22-3.jpg" data-url="26" class="pos-abs c-v2-s22-3 is-btn js-has-link"><img src="./assets/img/play-btn.png" data-src="./assets/video/1000.mp4" class="js-m-video bw-video pos-abs bw-video__btn--4"><img src="./assets/img/play-btn.png" data-src="./assets/video/79.mp4" class="js-m-video bw-video pos-abs bw-video__btn--5"><img src="./assets/img/play-btn.png" data-src="./assets/video/0.02.mp4" class="js-m-video bw-video pos-abs bw-video__btn--6"><div class="video-note pos-abs">提示：点击按钮播放视频，探索更多精彩</div></div></div></section><section class="bg-ghost-blue"><img src="./assets/img/v2/s23.jpg" class="l-w--100p l-top"><div data-url="22" class="c-v2-return-btn is-btn js-has-link"></div></section><section class="bg-ghost-blue"><img src="./assets/img/v2/s24.jpg" class="l-w--100p l-top"><div data-url="22" class="c-v2-return-btn is-btn js-has-link"></div></section><section class="bg-ghost-blue"><img src="./assets/img/v2/s25.jpg" class="l-w--100p l-top"><div data-url="22" class="c-v2-return-btn is-btn js-has-link"></div></section><section class="bg-ghost-blue"><img src="./assets/img/v2/s26.jpg" class="l-w--100p l-top"><div data-url="22" class="c-v2-return-btn is-btn js-has-link"></div></section><section class="bg-ghost-blue"><img src="./assets/img/v2/s27.jpg" class="l-w--100p l-top"></section><section class="bg-ghost-blue"><img src="./assets/img/v2/s28.jpg" class="l-w--100p l-top"></section><section class="bg-ghost-blue"><div class="l-w--100p l-top"><img src="./assets/img/v2/s29.jpg" class="l-w--100p"><img src="./assets/img/v2/s29-1.png" data-url="30" class="c-v2-s29 pos-abs js-has-link is-btn"></div></section><section class="bg-ghost-blue"><img src="./assets/img/v2/s30.jpg" class="l-w--100p l-top"><div data-url="29" class="c-v2-return-btn is-btn js-has-link"></div></section><section class="bg-ghost-blue"><img src="./assets/img/v2/s31.jpg" class="l-w--100p l-top"><div data-url="29" class="c-v2-return-btn is-btn js-has-link"></div></section><section class="bg-ghost-blue"><img src="./assets/img/v2/s32.jpg" class="l-w--100p l-top"><div data-url="29" class="c-v2-return-btn is-btn js-has-link"></div></section><section class="bg-ghost-blue"><div class="l-w--100p l-top"><img src="./assets/img/v2/s33.jpg" class="l-w--100p"><img src="./assets/img/v2/s29-1.png" data-url="34" class="c-v2-s33 pos-abs js-has-link is-btn"></div></section><section class="bg-ghost-blue"><img src="./assets/img/v2/s34.jpg" class="l-w--100p l-top"><div data-url="33" class="c-v2-return-btn is-btn js-has-link"></div></section><section class="bg-ghost-blue"><img src="./assets/img/v2/s35.jpg" class="l-w--100p l-top"><div data-url="33" class="c-v2-return-btn is-btn js-has-link"></div></section><section class="bg-ghost-blue"><img src="./assets/img/v2/s36.jpg" class="l-w--100p l-top"><div data-url="33" class="c-v2-return-btn is-btn js-has-link"></div></section><section class="bg-black"><img src="./assets/img/v2/s37.jpg" class="l-w--100p l-top"></section><section class="bg-lily-white"><img src="./assets/img/v2/s38-1.jpg" data-url="39" class="pos-rel flip-book-anim-24-1 l-w--100p c-v2-s38-1 is-btn js-has-link"><img src="./assets/img/v2/s38-2.jpg" data-url="43" class="pos-rel flip-book-anim-24-2 l-w--100p c-v2-s38-2 is-btn js-has-link"><img src="./assets/img/v2/s38-3.jpg" class="l-w--100p pos-rel c-v2-s38-0"><img src="./assets/img/v2/s38-4.jpg" data-url="45" class="pos-rel flip-book-anim-24-3 l-w--100p c-v2-s38-3 is-btn js-has-link"><img src="./assets/img/v2/s38-5.jpg" data-url="41" class="pos-rel flip-book-anim-24-4 l-w--100p c-v2-s38-4 is-btn js-has-link"><img src="./assets/img/v2/s38-6.jpg" data-url="46" class="pos-rel flip-book-anim-24-5 l-w--100p c-v2-s38-5 is-btn js-has-link"></section><section class="bg-ghost-blue"><img src="./assets/img/v2/s39.jpg" class="l-w--100p l-top"><div data-url="38" class="c-v2-return-btn is-btn js-has-link"></div></section><section class="bg-ghost-blue"><div class="l-w--100p l-top"><img src="./assets/img/v2/s40.jpg" class="l-w--100p"><img src="./assets/img/v2/s40-1.jpg" data-src="./assets/video/bx5.mp4" class="c-v2-s40 pos-abs has-btn js-m-video"></div><div data-url="38" class="c-v2-return-btn is-btn js-has-link"></div></section><section class="bg-ghost-blue"><img src="./assets/img/v2/s41.jpg" class="l-w--100p l-top"><div data-url="38" class="c-v2-return-btn is-btn js-has-link"></div></section><section class="bg-ghost-blue"><div class="l-w--100p l-top"><img src="./assets/img/v2/s42.jpg" class="l-w--100p"><img src="./assets/img/v2/s42-1.jpg" data-src="./assets/video/bx6.mp4" class="c-v2-s42 pos-abs has-btn js-m-video"></div><div data-url="38" class="c-v2-return-btn is-btn js-has-link"></div></section><section class="bg-ghost-blue"><img src="./assets/img/v2/s43.jpg" class="l-w--100p l-top"><div data-url="38" class="c-v2-return-btn is-btn js-has-link"></div></section><section class="bg-ghost-blue"><div class="l-w--100p l-top"><img src="./assets/img/v2/s44.jpg" class="l-w--100p"><img src="./assets/img/v2/s44-1.jpg" data-src="./assets/video/bx7.mp4" class="c-v2-s44 pos-abs has-btn js-m-video"></div><div data-url="38" class="c-v2-return-btn is-btn js-has-link"></div></section><section class="bg-ghost-blue"><img src="./assets/img/v2/s45.jpg" class="l-w--100p l-top"><div data-url="38" class="c-v2-return-btn is-btn js-has-link"></div></section><section class="bg-ghost-blue"><img src="./assets/img/v2/s46.jpg" class="l-w--100p l-top"><div data-url="38" class="c-v2-return-btn is-btn js-has-link"></div></section><section class="bg-ghost-blue"><img src="./assets/img/v2/s47.jpg" class="l-w--100p l-top"></section><section class="bg-ghost-blue"><img src="./assets/img/v2/s48.jpg" class="l-w--100p l-top"></section><section class="bg-black"><img src="./assets/img/v2/s49.jpg" class="l-w--100p l-top"></section><section class="bg-ghost-blue"><div class="l-w--100p pos-rel c-v2-s50-top"><img src="./assets/img/v2/s50-top.jpg" class="l-w--100p"><a href="https://k.autohome.com.cn/detail/view_01c4y0tn3e64w3jd1j74wg0000.html?st=2&amp;piap=0|3913|0|0|1|0|0|0|0|0|1" target="_blank"><img src="./assets/img/v2/s50-1.jpg" class="c-v2-s50-1 pos-abs"></a><a href="https://k.autohome.com.cn/detail/view_01cee87nk668r38csr70v00000.html?st=21&amp;piap=1|31294|0|0|1|0|5|0|0|0|1" target="_blank"><img src="./assets/img/v2/s50-2.jpg" class="c-v2-s50-2 pos-abs"></a></div><div class="l-w--100p pos-rel c-v2-s50-middle"><img src="./assets/img/v2/s50-middle.jpg" class="l-w--100p"><a href="http://news.bitauto.com/hao/wenzhang/832953" target="_blank"><img src="./assets/img/v2/s50-3.jpg" class="c-v2-s50-3 pos-abs"></a><a href="http://auto.ifeng.com/shijia/20180621/1195993.shtml" target="_blank"><img src="./assets/img/v2/s50-4.jpg" class="c-v2-s50-4 pos-abs"></a></div><div class="l-w--80p pos-rel c-v2-s50-bottom"><img src="./assets/img/v2/s50-bottom.jpg" class="l-w--100p"><img src="./assets/img/v2/s50-5.jpg" data-url="51" class="c-v2-s50-5 pos-abs is-btn js-has-link"><a href="https://k.autohome.com.cn/compareseries/3913/#pvareaid=101434" target="_blank"><img src="./assets/img/v2/s50-6.jpg" class="c-v2-s50-6 pos-abs"></a></div></section><section class="bg-ghost-blue"><div class="l-w--100p pos-rel c-v2-s50-top"><img src="./assets/img/v2/s51-top.jpg" class="l-w--100p"><a href="https://k.autohome.com.cn/detail/view_01c4ymrday64w3jd1q6gsg0000.html?st=1&amp;piap=0|3913|0|0|1|0|4|0|0|0|1" target="_blank"><img src="./assets/img/v2/s51-1.jpg" class="c-v2-s50-1 pos-abs"></a><a href="https://k.autohome.com.cn/detail/view_01c4y0tn3e64w3jd1j74wg0000.html?st=2&amp;piap=0|3913|0|0|1|0|4|0|0|0|1" target="_blank"><img src="./assets/img/v2/s51-2.jpg" class="c-v2-s50-2 pos-abs"></a></div><div class="l-w--100p pos-rel c-v2-s50-middle"><img src="./assets/img/v2/s50-middle.jpg" class="l-w--100p"><a href="http://news.bitauto.com/hao/wenzhang/811635" target="_blank"><img src="./assets/img/v2/s51-3.jpg" class="c-v2-s50-3 pos-abs"></a><a href="http://news.cheshi.com/dujia/20180626/2847936.shtml" target="_blank"><img src="./assets/img/v2/s51-4.jpg" class="c-v2-s50-4 pos-abs"></a></div><div class="l-w--80p pos-rel c-v2-s50-bottom"><img src="./assets/img/v2/s50-bottom.jpg" class="l-w--100p"><img src="./assets/img/v2/s50-5.jpg" data-url="54" class="c-v2-s50-5 pos-abs is-btn js-has-link"><a href="https://k.autohome.com.cn/compareseries/3913/#pvareaid=101434" target="_blank"><img src="./assets/img/v2/s50-6.jpg" class="c-v2-s50-6 pos-abs"></a></div></section><section class="bg-ghost-blue"><div class="l-w--100p pos-rel c-v2-s50-top"><img src="./assets/img/v2/s52-top.jpg" class="l-w--100p"><a href="https://k.autohome.com.cn/detail/view_01c55x5g5b64w3je9k6wrg0000.html?st=8&amp;piap=1|31294|0|0|1|0|1|0|0|0|1" target="_blank"><img src="./assets/img/v2/s52-1.jpg" class="c-v2-s50-1 pos-abs"></a><a href="https://k.autohome.com.cn/detail/view_01c1aqxkj064w38chs64wg0000.html?st=44&amp;piap=1|31294|0|0|1|0|1|0|0|0|1" target="_blank"><img src="./assets/img/v2/s52-2.jpg" class="c-v2-s50-2 pos-abs"></a></div><div class="l-w--100p pos-rel c-v2-s50-middle"><img src="./assets/img/v2/s50-middle.jpg" class="l-w--100p"><a href="https://www.autohome.com.cn/news/201712/911073.html" target="_blank"><img src="./assets/img/v2/s52-3.jpg" class="c-v2-s50-3 pos-abs"></a><a href="http://www.maiche.com/news/detail/1409612.html" target="_blank"><img src="./assets/img/v2/s52-4.jpg" class="c-v2-s50-4 pos-abs"></a></div><div class="l-w--80p pos-rel c-v2-s50-bottom"><img src="./assets/img/v2/s50-bottom.jpg" class="l-w--100p"><img src="./assets/img/v2/s50-5.jpg" data-url="54" class="c-v2-s50-5 pos-abs is-btn js-has-link"><a href="https://k.autohome.com.cn/compareseries/3913/#pvareaid=101434" target="_blank"><img src="./assets/img/v2/s50-6.jpg" class="c-v2-s50-6 pos-abs"></a></div></section><section class="bg-ghost-blue"><div class="l-w--100p pos-rel c-v2-s50-top"><img src="./assets/img/v2/s53-top.jpg" class="l-w--100p"><a href="https://k.autohome.com.cn/detail/view_01cf1gxnqp68r3ad1s68s00000.html?st=76&amp;piap=1|31294|0|0|1|0|3|0|0|0|1" target="_blank"><img src="./assets/img/v2/s53-1.jpg" class="c-v2-s50-1 pos-abs"></a><a href="https://k.autohome.com.cn/detail/view_01c4ymrday64w3jd1q6gsg0000.html?st=1&amp;piap=0|3913|0|0|1|0|3|0|0|0|1" target="_blank"><img src="./assets/img/v2/s53-2.jpg" class="c-v2-s50-2 pos-abs"></a></div><div class="l-w--100p pos-rel c-v2-s50-middle"><img src="./assets/img/v2/s50-middle.jpg" class="l-w--100p"><a href="http://auto.ifeng.com/shijia/20180621/1195993.shtml" target="_blank"><img src="./assets/img/v2/s53-3.jpg" class="c-v2-s50-3 pos-abs"></a><a href="https://chejiahao.autohome.com.cn/info/2522482" target="_blank"><img src="./assets/img/v2/s53-4.jpg" class="c-v2-s50-4 pos-abs"></a></div><div class="l-w--80p pos-rel c-v2-s50-bottom"><img src="./assets/img/v2/s50-bottom.jpg" class="l-w--100p"><img src="./assets/img/v2/s50-5.jpg" data-url="54" class="c-v2-s50-5 pos-abs is-btn js-has-link"><a href="https://k.autohome.com.cn/compareseries/3913/#pvareaid=101434" target="_blank"><img src="./assets/img/v2/s50-6.jpg" class="c-v2-s50-6 pos-abs"></a></div></section><section class="bg-ghost-blue"><div class="l-w--100p l-top"><img src="./assets/img/v2/s54.jpg" class="l-w--100p"></div><div class="c-v2-s51 pos-abs"><a href="http://news.bitauto.com/hao/wenzhang/832953" target="_blank"><img src="./assets/img/v2/s54-1.jpg" class="l-w--100p c-v2-s51-1"></a><a href="http://auto.ifeng.com/shijia/20180621/1195993.shtml" target="_blank"><img src="./assets/img/v2/s54-2.jpg" class="l-w--100p c-v2-s51-2"></a><a href="http://news.bitauto.com/hao/wenzhang/811635" target="_blank"><img src="./assets/img/v2/s54-3.jpg" class="l-w--100p c-v2-s51-3"></a></div><div data-url="51" class="c-v2-return-btn is-btn js-has-link"></div></section><section class="bg-ghost-blue"><img src="./assets/img/v2/s55.jpg" class="l-w--100p l-center"></section></div><div class="flip-icon js-flip-btn"></div></body><script src="./assets/js/vendor/jquery.fancybox.js"></script><script src="./assets/js/vendor/turn.js"></script><script src="./assets/js/vendor/video.js"></script><script src="./assets/js/app.js"></script></html>

diff --git a/public/assets/css/app.css b/public/assets/css/app.css
@@ -1357,7 +1357,7 @@ li {
 }
 .c-header__menu>ul {
   display: flex;
-  padding-left: 5%;
+  padding-left: 0;
   position: absolute;
   width: 100%;
 }
@@ -1415,6 +1415,9 @@ li {
 }
 .c-header__menu__submenu.active {
   display: block;
+}
+.c-header__menu__submenu a {
+  font-size: 10px !important;
 }
 .c-header__menu__submenu a.active {
   color: #c21535;
@@ -1502,21 +1505,25 @@ li {
   height: 70px;
 }
 .isIphoneX #p2 ul {
-  top: 55%;
+  top: 60%;
 }
 .c-v2-s5-1,
 .c-v2-s5-2,
-.c-v2-s5-3 {
-  left: 10%;
+.c-v2-s5-3,
+.c-v2-s5-4 {
+  left: 15%;
 }
 .c-v2-s5-1 {
-  top: 17%;
+  top: 15%;
 }
 .c-v2-s5-2 {
-  top: 32%;
+  top: 27%;
 }
 .c-v2-s5-3 {
-  top: 47%;
+  top: 39%;
+}
+.c-v2-s5-4 {
+  top: 53%;
 }
 .c-v2-s6,
 .c-v2-s7,
